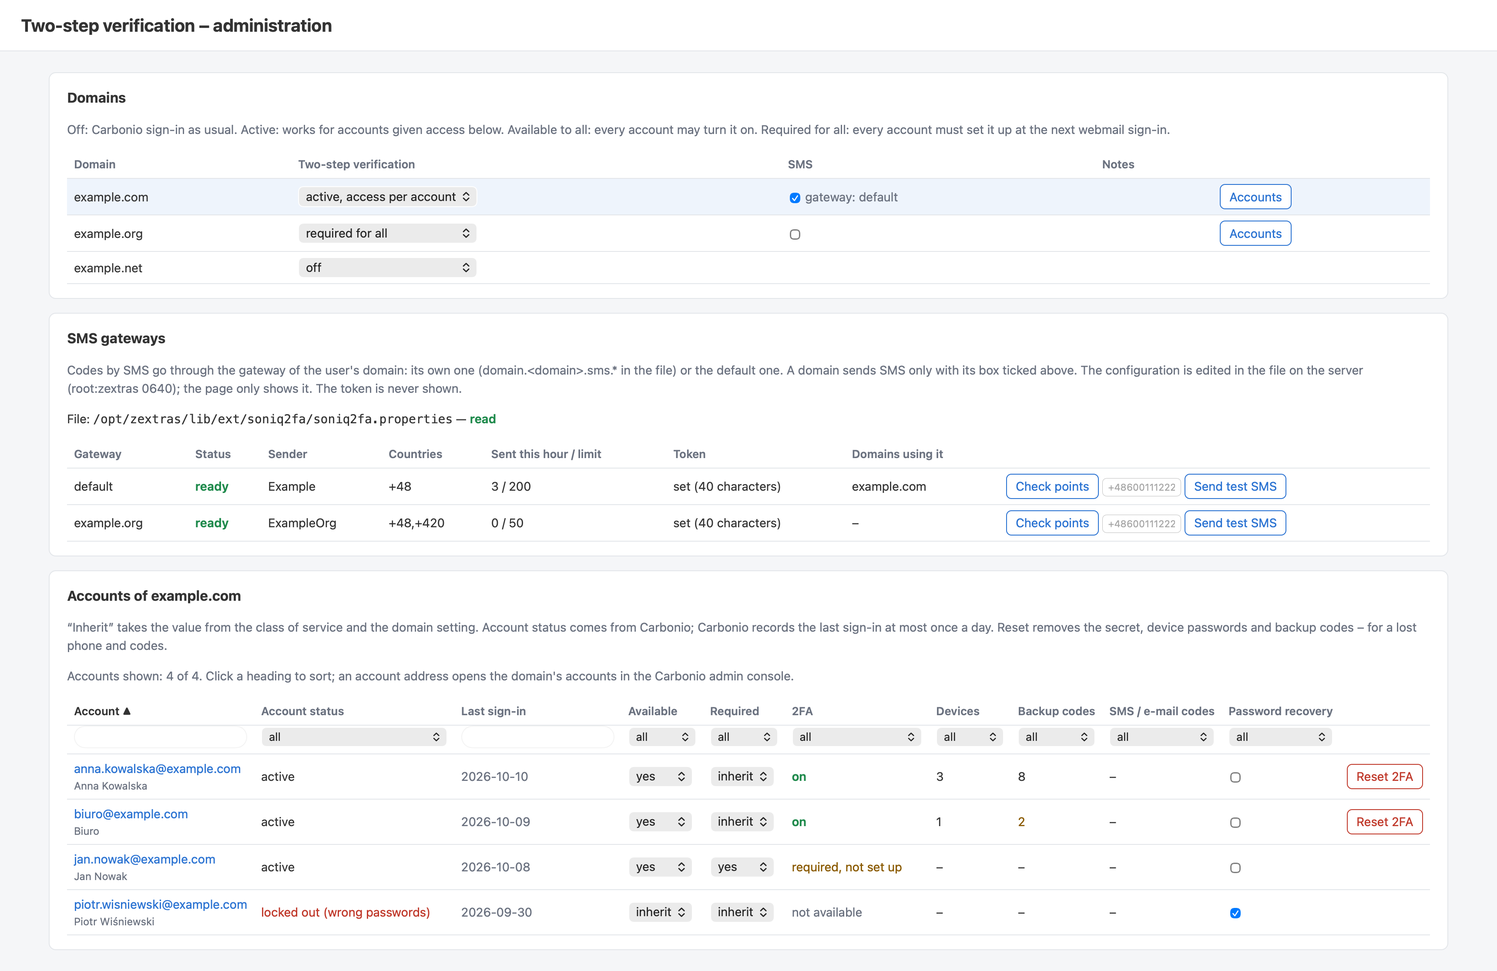
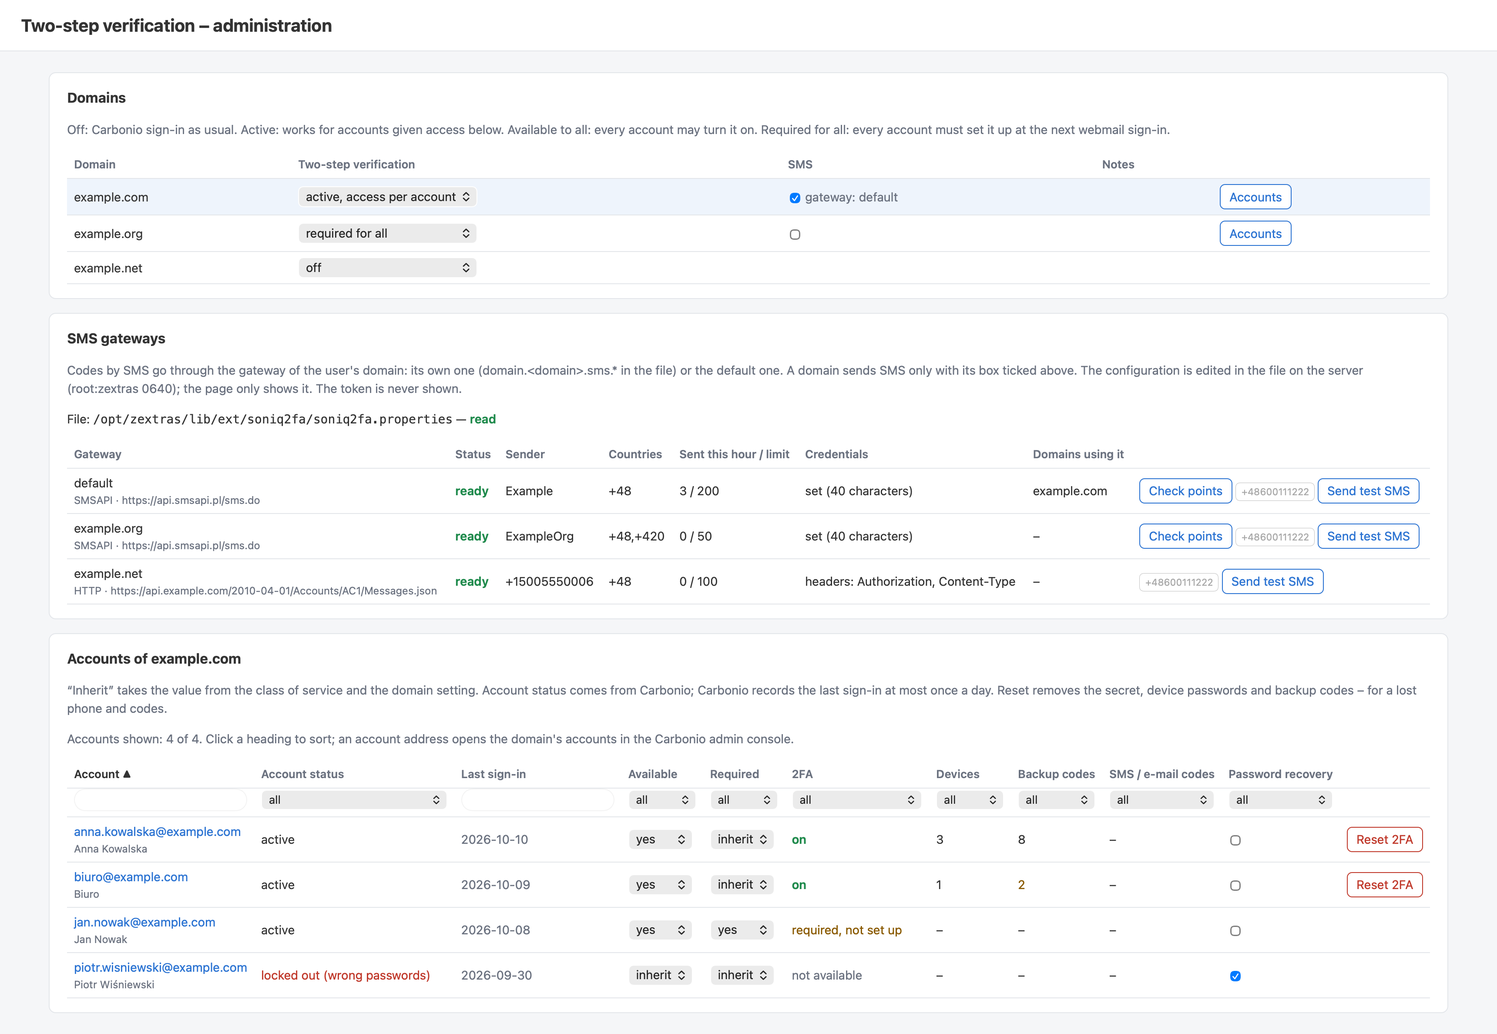
Any SMS gateway with an HTTP API (sms.provider=http), examples for Twilio and Vonage

diff --git a/src/pl/soniqsoft/soniq2fa/admin.js b/src/pl/soniqsoft/soniq2fa/admin.js
@@ -119,16 +119,21 @@
     show("gateways-table", j.gateways.length > 0);
     j.gateways.forEach(function (g) {
       var tr = el("tr");
-      tr.appendChild(el("td", g.name === "default" ? t("admin.sms.default") : g.name));
+      var name = el("td", g.name === "default" ? t("admin.sms.default") : g.name);
+      name.appendChild(el("span", (g.provider === "http" ? "HTTP" : "SMSAPI") + " · " + g.url, "sub"));
+      tr.appendChild(name);
       tr.appendChild(el("td", t(g.configured ? "admin.sms.ready" : "admin.sms.incomplete"), g.configured ? "on" : "err"));
       tr.appendChild(el("td", g.from || t("admin.sms.accountDefault")));
       tr.appendChild(el("td", g.countries));
       tr.appendChild(el("td", g.sentThisHour + " / " + g.maxPerHour));
-      tr.appendChild(el("td", g.tokenLength ? t("admin.sms.tokenSet", { n: g.tokenLength }) : "–", g.tokenLength ? "" : "err"));
+      // credentials are never shown: SMSAPI token as its length, an HTTP gateway as the names of its headers
+      var cred = g.provider === "http" ? (g.headers ? t("admin.sms.headers", { names: g.headers }) : "–")
+        : g.tokenLength ? t("admin.sms.tokenSet", { n: g.tokenLength }) : "–";
+      tr.appendChild(el("td", cred, cred === "–" && g.provider !== "http" ? "err" : ""));
       tr.appendChild(el("td", g.domains.length ? g.domains.join(", ") : "–"));
       var act = el("td");
       var points = el("button", t("admin.sms.points"));
-      var out = el("span", "", "sub");
+      var out = el("span", "", "sub out");
       points.onclick = function () {
         out.textContent = "…";
         post("sms-points", { gateway: g.name }).then(function (r) { out.textContent = t("admin.sms.pointsLeft", { points: r.points }); })
@@ -151,7 +156,7 @@
           });
         }).catch(function () { out.textContent = ""; message(t("admin.err.server")); });
       };
-      [points, el("span", " "), phone, el("span", " "), test, out].forEach(function (n) { act.appendChild(n); });
+      [g.balance ? points : null, el("span", " "), phone, el("span", " "), test, out].forEach(function (n) { if (n) act.appendChild(n); });
       tr.appendChild(act);
       tb.appendChild(tr);
     });

diff --git a/src/pl/soniqsoft/soniq2fa/Channels.java b/src/pl/soniqsoft/soniq2fa/Channels.java
@@ -33,9 +33,18 @@ import java.util.Properties;
  *   sms.url=https://api.smsapi.pl/sms.do   (optional)
  *   sms.maxPerHour=200                     (optional, per gateway)
  *   sms.countries=+48                      (optional, allowed number prefixes, comma-separated; against SMS pumping)
+ * Any HTTP SMS gateway instead of SMSAPI (sms.provider=http):
+ *   sms.http.url=<address; may contain {to} {to_digits} {text} {from}, URL-encoded>
+ *   sms.http.method=POST                   (or GET)
+ *   sms.http.header.<Name>=<value>         (e.g. Authorization, Content-Type; never shown on the admin page)
+ *   sms.http.body=<template with {to} {to_digits} {text} {from}>
+ *   sms.http.encoding=form                 (form: URL-encoded values, json: JSON string escapes, none)
+ *   sms.http.success.status=200,201,202    (accepted HTTP codes)
+ *   sms.http.success.match=<regex>         (optional, must be found in the answer)
+ *   sms.http.balance.url=<address>, sms.http.balance.match=<regex, group 1 = balance>   (optional, admin page)
  * Any key can be overridden for one mail domain as domain.<domain>.sms.<key>, e.g. domain.example.com.sms.from=Example;
- * a domain with its own domain.<domain>.sms.token has its own gateway (own account, own hourly limit), the others use
- * the default one. Whether a domain may send SMS at all is set on the domain (flag "sms" of its mechanism, see
+ * a domain with its own domain.<domain>.sms.token (SMSAPI) or sms.http.url has its own gateway (own account, own hourly
+ * limit), the others use the default one. Whether a domain may send SMS at all is set on the domain (flag "sms" of its mechanism, see
  * Soniq2faPage.smsEnabled).
  * No Carbonio classes, so the self-test runs without a mailbox.
  */
@@ -121,7 +130,7 @@ final class Channels {
         for (String k : file.stringPropertyNames()) {
             if (!k.startsWith(prefix + "sms.")) continue;
             p.setProperty(k.substring(prefix.length()), file.getProperty(k));
-            own |= k.equals(prefix + "sms.token");
+            own |= k.equals(prefix + "sms.token") || k.equals(prefix + "sms.http.url");
         }
         p.setProperty("gateway.name", own ? domain.toLowerCase(java.util.Locale.ROOT) : DEFAULT);
         return p;
@@ -132,7 +141,13 @@ final class Channels {
     }
 
     static boolean configured(Properties p) {
-        return "smsapi".equals(p.getProperty("sms.provider", "").trim()) && !p.getProperty("sms.token", "").isBlank();
+        String provider = p.getProperty("sms.provider", "").trim();
+        if ("http".equals(provider)) return !p.getProperty("sms.http.url", "").isBlank();
+        return "smsapi".equals(provider) && !p.getProperty("sms.token", "").isBlank();
+    }
+
+    static boolean http(Properties p) {
+        return "http".equals(p.getProperty("sms.provider", "").trim());
     }
 
     /** The domain's gateway can send (whether the domain may use it is decided by the caller). */
@@ -143,9 +158,13 @@ final class Channels {
     /** Gateways in the file: DEFAULT when it has a token, and every domain with its own sms.token. */
     static List<String> gatewayNames(Properties file) {
         List<String> names = new ArrayList<>();
-        if (!file.getProperty("sms.token", "").isBlank()) names.add(DEFAULT);
-        for (String k : new java.util.TreeSet<>(file.stringPropertyNames()))
-            if (k.startsWith("domain.") && k.endsWith(".sms.token")) names.add(k.substring(7, k.length() - 10));
+        if (!file.getProperty("sms.token", "").isBlank() || !file.getProperty("sms.http.url", "").isBlank()) names.add(DEFAULT);
+        for (String k : new java.util.TreeSet<>(file.stringPropertyNames())) {
+            if (!k.startsWith("domain.")) continue;
+            String name = k.endsWith(".sms.token") ? k.substring(7, k.length() - 10)
+                    : k.endsWith(".sms.http.url") ? k.substring(7, k.length() - 13) : null;
+            if (name != null && !names.contains(name)) names.add(name);
+        }
         return names;
     }
 
@@ -171,6 +190,103 @@ final class Channels {
         synchronized (h) {
             return now - h[0] > 3_600_000 ? 0 : h[1];
         }
+    }
+
+    // ---- any HTTP gateway (sms.provider=http) ----
+
+    /** Values for the templates: {to} +48600111222, {to_digits} 48600111222, {text}, {from}. */
+    static Map<String, String> vars(Properties p, String phone, String text) {
+        return Map.of("to", phone, "to_digits", phone.substring(1), "text", text, "from", p.getProperty("sms.from", "").trim());
+    }
+
+    /** The template with {name} replaced by the values, each encoded: form (URL), json (string escapes) or none. */
+    static String fill(String template, Map<String, String> vars, String encoding) {
+        StringBuilder b = new StringBuilder();
+        java.util.regex.Matcher m = java.util.regex.Pattern.compile("\\{(to|to_digits|text|from)\\}").matcher(template);
+        while (m.find()) m.appendReplacement(b, java.util.regex.Matcher.quoteReplacement(encode(vars.get(m.group(1)), encoding)));
+        m.appendTail(b);
+        return b.toString();
+    }
+
+    static String encode(String v, String encoding) {
+        if ("json".equals(encoding)) {
+            StringBuilder b = new StringBuilder();
+            for (char c : v.toCharArray()) {
+                if (c == '"' || c == '\\') b.append('\\').append(c);
+                else if (c < 0x20) b.append(String.format("\\u%04x", (int) c));
+                else b.append(c);
+            }
+            return b.toString();
+        }
+        if ("none".equals(encoding)) return v;
+        return URLEncoder.encode(v, StandardCharsets.UTF_8);
+    }
+
+    static HttpRequest httpRequest(Properties p, String phone, String text) {
+        Map<String, String> v = vars(p, phone, text);
+        String url = fill(p.getProperty("sms.http.url").trim(), v, "form");
+        String body = fill(p.getProperty("sms.http.body", ""), v, p.getProperty("sms.http.encoding", "form").trim());
+        HttpRequest.Builder r = HttpRequest.newBuilder(URI.create(url)).timeout(Duration.ofSeconds(20));
+        headers(p, r);
+        if ("GET".equalsIgnoreCase(p.getProperty("sms.http.method", "POST").trim())) r.GET();
+        else r.POST(HttpRequest.BodyPublishers.ofString(body));
+        return r.build();
+    }
+
+    private static void headers(Properties p, HttpRequest.Builder r) {
+        for (String k : p.stringPropertyNames())
+            if (k.startsWith("sms.http.header.")) r.header(k.substring("sms.http.header.".length()), p.getProperty(k).trim());
+    }
+
+    /** Names of the configured headers, for the admin page (their values may be secrets). */
+    static List<String> headerNames(Properties p) {
+        List<String> n = new ArrayList<>();
+        for (String k : new java.util.TreeSet<>(p.stringPropertyNames()))
+            if (k.startsWith("sms.http.header.")) n.add(k.substring("sms.http.header.".length()));
+        return n;
+    }
+
+    static boolean httpAccepted(Properties p, int status, String body) {
+        boolean code = false;
+        for (String c : p.getProperty("sms.http.success.status", "200,201,202").split(","))
+            code |= c.trim().equals(String.valueOf(status));
+        String match = p.getProperty("sms.http.success.match", "").trim();
+        return code && (match.isEmpty() || java.util.regex.Pattern.compile(match).matcher(body == null ? "" : body).find());
+    }
+
+    /** At most 200 characters of a gateway's answer, without digit runs that could be a phone number. */
+    static String redact(String body) {
+        String b = body == null ? "" : body.replaceAll("\\s+", " ").replaceAll("\\+?[0-9]{7,}", "…");
+        return b.length() > 200 ? b.substring(0, 200) + "…" : b;
+    }
+
+    /** The address without query and user info, for the admin page (a query may carry an API key). */
+    static String publicUrl(Properties p) {
+        String u = http(p) ? p.getProperty("sms.http.url", "") : p.getProperty("sms.url", "https://api.smsapi.pl/sms.do");
+        try {
+            URI x = URI.create(u.trim().replaceAll("\\{[a-z_]+\\}", "x"));
+            return x.getScheme() + "://" + x.getHost() + (x.getPort() > 0 ? ":" + x.getPort() : "") + (x.getPath() == null ? "" : x.getPath());
+        } catch (IllegalArgumentException e) {
+            return "";
+        }
+    }
+
+    /** Whether the admin page can ask for the balance: SMSAPI always, other gateways with sms.http.balance.url. */
+    static boolean hasBalance(Properties p) {
+        return !http(p) || !p.getProperty("sms.http.balance.url", "").isBlank();
+    }
+
+    /** Balance or points left on the gateway's account; throws with the answer when it cannot be read. */
+    static String balance(Properties p) throws IOException, InterruptedException {
+        if (!http(p)) return smsapiPoints(p);
+        HttpRequest.Builder r = HttpRequest.newBuilder(URI.create(p.getProperty("sms.http.balance.url", "").trim()))
+                .timeout(Duration.ofSeconds(15)).GET();
+        headers(p, r);
+        HttpResponse<String> resp = HttpClient.newBuilder().connectTimeout(Duration.ofSeconds(10)).build()
+                .send(r.build(), HttpResponse.BodyHandlers.ofString());
+        java.util.regex.Matcher m = java.util.regex.Pattern.compile(p.getProperty("sms.http.balance.match", "([0-9.]+)").trim()).matcher(resp.body());
+        if (resp.statusCode() / 100 != 2 || !m.find()) throw new IOException("balance not read: HTTP " + resp.statusCode() + " " + redact(resp.body()));
+        return m.group(m.groupCount() >= 1 ? 1 : 0);
     }
 
     /** Points left on the SMSAPI account of a gateway (GET /profile); throws with the gateway's answer on refusal. */
@@ -204,6 +320,13 @@ final class Channels {
         if (!configured(p)) throw new IOException("SMS gateway '" + p.getProperty("gateway.name") + "' not configured in " + GATEWAY_FILE);
         if (!mayText(p, System.currentTimeMillis()))
             throw new IOException("hourly SMS limit of gateway '" + p.getProperty("gateway.name") + "' reached (sms.maxPerHour)");
+        if (http(p)) {
+            HttpResponse<String> resp = HttpClient.newBuilder().connectTimeout(Duration.ofSeconds(10)).build()
+                    .send(httpRequest(p, phone, text), HttpResponse.BodyHandlers.ofString());
+            if (!httpAccepted(p, resp.statusCode(), resp.body()))
+                throw new IOException("gateway refused: HTTP " + resp.statusCode() + " " + redact(resp.body()));
+            return;
+        }
         HttpRequest req = HttpRequest.newBuilder(URI.create(p.getProperty("sms.url", "https://api.smsapi.pl/sms.do").trim()))
                 .timeout(Duration.ofSeconds(20))
                 .header("Authorization", "Bearer " + p.getProperty("sms.token").trim())
@@ -229,6 +352,12 @@ final class Channels {
         java.util.regex.Matcher e = java.util.regex.Pattern.compile("\"error\"\\s*:\\s*([0-9]+)").matcher(body == null ? "" : body);
         java.util.regex.Matcher m = java.util.regex.Pattern.compile("\"message\"\\s*:\\s*\"([^\"]{0,200})\"").matcher(body == null ? "" : body);
         return "error " + (e.find() ? e.group(1) : "?") + ": " + (m.find() ? m.group(1) : "");
+    }
+
+    private static Properties withUrl(Properties p, String url) {
+        Properties c = (Properties) p.clone();
+        c.setProperty("sms.http.url", url);
+        return c;
     }
 
     static void selftest() {
@@ -281,6 +410,35 @@ final class Channels {
         check("T0".equals(net.getProperty("sms.token")) && DEFAULT.equals(net.getProperty("gateway.name")), "domain on the default gateway");
         check(List.of(DEFAULT, "example.com").equals(gatewayNames(f)), "gateway names");
         check(!configured(gateway(new Properties(), "example.com")), "no file, no gateway");
+
+        // any HTTP gateway: a Twilio-like form POST and a JSON one, without sending anything
+        Properties tw = new Properties();
+        tw.setProperty("sms.provider", "http");
+        tw.setProperty("sms.from", "+15005550006");
+        tw.setProperty("sms.http.url", "https://api.example.com/2010-04-01/Accounts/AC1/Messages.json");
+        tw.setProperty("sms.http.header.Authorization", "Basic c2VjcmV0");
+        tw.setProperty("sms.http.header.Content-Type", "application/x-www-form-urlencoded");
+        tw.setProperty("sms.http.body", "To={to}&From={from}&Body={text}");
+        tw.setProperty("sms.http.success.status", "201");
+        tw.setProperty("sms.http.success.match", "\"status\"\\s*:\\s*\"queued\"");
+        HttpRequest twr = httpRequest(tw, "+48600111222", "Code: 123 456 & more");
+        check(configured(tw) && "POST".equals(twr.method()) && twr.headers().firstValue("Authorization").orElse("").equals("Basic c2VjcmV0"),
+                "http gateway: method and headers");
+        check("To=%2B48600111222&From=%2B15005550006&Body=Code%3A+123+456+%26+more".equals(
+                fill(tw.getProperty("sms.http.body"), vars(tw, "+48600111222", "Code: 123 456 & more"), "form")), "http gateway: form body");
+        check(httpAccepted(tw, 201, "{\"sid\":\"SM1\",\"status\":\"queued\"}") && !httpAccepted(tw, 201, "{\"status\":\"failed\"}")
+                && !httpAccepted(tw, 400, "{\"status\":\"queued\"}"), "http gateway: success by code and match");
+        check("{\"phone\":\"48600111222\",\"text\":\"a \\\"b\\\" \\u000a\"}".equals(
+                fill("{\"phone\":\"{to_digits}\",\"text\":\"{text}\"}", vars(tw, "+48600111222", "a \"b\" \n"), "json")), "http gateway: json escapes");
+        check("https://api.example.com/send".equals(publicUrl(withUrl(tw, "https://api.example.com/send?key=SECRET&to={to}"))),
+                "http gateway: address shown without the query");
+        check(!redact("{\"to\":\"+48600111222\",\"error\":\"x\"}").contains("600111222"), "http gateway: answer logged without the number");
+        check(List.of("Authorization", "Content-Type").equals(headerNames(tw)) && !hasBalance(tw), "http gateway: header names, no balance");
+        Properties f2 = new Properties();
+        f2.setProperty("domain.example.net.sms.provider", "http");
+        f2.setProperty("domain.example.net.sms.http.url", "https://sms.example.net/send");
+        check(List.of("example.net").equals(gatewayNames(f2)) && "example.net".equals(gateway(f2, "example.net").getProperty("gateway.name"))
+                && configured(gateway(f2, "example.net")), "http gateway as a domain's own gateway");
     }
 
     private static void check(boolean ok, String name) {

diff --git a/src/pl/soniqsoft/soniq2fa/Soniq2faAdmin.java b/src/pl/soniqsoft/soniq2fa/Soniq2faAdmin.java
@@ -30,7 +30,7 @@ import javax.servlet.http.HttpServletResponse;
  * POST op=recovery account, on (true | false) - zimbraFeatureResetPasswordStatus; turning it on for an account with 2FA
  *                  weakens it (the page asks first), and every login of that account logs an error
  * POST op=domain-sms domain, on (true | false) - the flag "sms" of the domain's mechanism (codes by SMS allowed)
- * POST op=sms-points gateway - points left on its SMSAPI account
+ * POST op=sms-points gateway - points or balance left on its account (SMSAPI, or sms.http.balance.url)
  * POST op=sms-test gateway, phone - a test SMS, sent at once (at most one a minute per admin)
  *
  * POST needs the X-Soniq2fa header and a same-host Origin, as the user page. Every change is logged with the admin.
@@ -131,7 +131,7 @@ public final class Soniq2faAdmin extends ExtensionHttpHandler {
                     java.util.Properties g = gatewayByName(req.getParameter("gateway"));
                     String points;
                     try {
-                        points = Channels.smsapiPoints(g);
+                        points = Channels.balance(g);
                     } catch (java.io.IOException e) {
                         ZimbraLog.account.warn("soniq2fa: admin %s: points of SMS gateway '%s': %s", admin.getName(), g.getProperty("gateway.name"), e.getMessage());
                         throw new IllegalArgumentException("sms_gateway");
@@ -260,8 +260,10 @@ public final class Soniq2faAdmin extends ExtensionHttpHandler {
                     .append(",\"from\":").append(Soniq2faPage.q(g.getProperty("sms.from", "")))
                     .append(",\"countries\":").append(Soniq2faPage.q(g.getProperty("sms.countries", "+48")))
                     .append(",\"maxPerHour\":").append(Soniq2faPage.q(g.getProperty("sms.maxPerHour", "200")))
-                    .append(",\"url\":").append(Soniq2faPage.q(g.getProperty("sms.url", "https://api.smsapi.pl/sms.do")))
-                    .append(",\"tokenLength\":").append(g.getProperty("sms.token", "").trim().length())
+                    .append(",\"url\":").append(Soniq2faPage.q(Channels.publicUrl(g)))
+                    .append(",\"tokenLength\":").append(Channels.http(g) ? 0 : g.getProperty("sms.token", "").trim().length())
+                    .append(",\"headers\":").append(Soniq2faPage.q(String.join(", ", Channels.headerNames(g))))
+                    .append(",\"balance\":").append(Channels.hasBalance(g))
                     .append(",\"sentThisHour\":").append(Channels.sentThisHour(name, now))
                     .append(",\"domains\":[").append(ds).append("]}");
         }

diff --git a/README.md b/README.md
@@ -474,6 +474,68 @@ domain.example.org.sms.from=ExampleOrg
 domain.example.net.sms.from=ExampleNet
 ```
 
+#### Other SMS gateways (any HTTP API)
+
+Instead of SMSAPI a gateway can be any service that sends an SMS with one HTTP request. Set `sms.provider=http` and
+describe the request; `{to}` (`+48600111222`), `{to_digits}` (`48600111222`), `{text}` and `{from}` are replaced in the
+address (URL-encoded) and in the body (encoded as `sms.http.encoding` says: `form`, `json` or `none`):
+
+| Key | Meaning |
+|---|---|
+| `sms.http.url` | address of the send call |
+| `sms.http.method` | `POST` (default) or `GET` |
+| `sms.http.header.<Name>` | a request header, e.g. `Authorization`, `Content-Type` (values are never shown on the page) |
+| `sms.http.body` | body template |
+| `sms.http.encoding` | `form` (default), `json`, `none` |
+| `sms.http.success.status` | accepted HTTP codes, default `200,201,202` |
+| `sms.http.success.match` | optional regular expression that must be found in the answer |
+| `sms.http.balance.url`, `sms.http.balance.match` | optional: balance for the administration page (group 1 of the expression) |
+
+Twilio ([Messages API](https://www.twilio.com/docs/messaging/api/message-resource#create-a-message-resource);
+`Authorization` is `Basic` with base64 of `AccountSID:AuthToken`):
+
+```properties
+sms.provider=http
+sms.from=+15005550006
+sms.http.url=https://api.twilio.com/2010-04-01/Accounts/<AccountSID>/Messages.json
+sms.http.header.Authorization=Basic <base64 of AccountSID:AuthToken>
+sms.http.header.Content-Type=application/x-www-form-urlencoded
+sms.http.body=To={to}&From={from}&Body={text}
+sms.http.success.status=201
+sms.http.success.match="status"\s*:\s*"(queued|accepted|sending|sent)"
+```
+
+Vonage SMS API (`https://rest.nexmo.com/sms/json`, basic auth with API key and secret; a sent message has status `"0"`):
+
+```properties
+sms.provider=http
+sms.from=Example
+sms.http.url=https://rest.nexmo.com/sms/json
+sms.http.header.Authorization=Basic <base64 of key:secret>
+sms.http.header.Content-Type=application/x-www-form-urlencoded
+sms.http.body=from={from}&to={to_digits}&text={text}
+sms.http.success.match="status"\s*:\s*"0"
+```
+
+A gateway with a JSON API and a bearer token (fictitious service):
+
+```properties
+sms.provider=http
+sms.http.url=https://api.example.com/v1/sms
+sms.http.header.Authorization=Bearer <token>
+sms.http.header.Content-Type=application/json
+sms.http.encoding=json
+sms.http.body={"to":"{to}","sender":"{from}","message":"{text}"}
+sms.http.success.match="ok"\s*:\s*true
+sms.http.balance.url=https://api.example.com/v1/balance
+sms.http.balance.match="balance"\s*:\s*([0-9.]+)
+```
+
+Check every new gateway with **Send test SMS** on the administration page before ticking SMS for a domain; a refusal
+is shown there and logged in `mailbox.log` (the answer without phone numbers). The same keys work per domain
+(`domain.<domain>.sms.provider=http`, …), so domains can use different providers. Gateways that do not speak HTTP
+(SMPP, GSM modems) need an HTTP bridge in front of them.
+
 The administration page shows every gateway read-only — state, sender, countries, messages this hour against the
 limit, whether the token is set (never the token), the domains using it — and can check the SMSAPI points and send a
 test SMS. The file is read at every send, so changes need no restart; without it the
@@ -548,7 +610,7 @@ The login pages send the same `AuthRequest` JSON; a change in how the server ans
   them, and mail goes out through the local MTA with the account itself as the sender.
 - Turning 2FA on sends no notification e-mail.
 - Codes by SMS and e-mail complement the app: an account turns them on after setting up 2FA with the app, and 2FA by SMS
-  alone is not offered. SMS goes through SMSAPI only; pending codes are kept in memory (a mailbox restart voids them).
+  alone is not offered. SMS goes through SMSAPI or any gateway with an HTTP API; pending codes are kept in memory (a mailbox restart voids them).
 - REST access with HTTP basic auth is not available to enrolled users.
 - Single-server installations only (see Requirements).
 - The TOTP secret is not encrypted in LDAP.
@@ -614,7 +676,8 @@ zmianie telefonu.
 - **Zgubiony telefon i kody zapasowe:** *Resetuj 2FA*, użytkownik konfiguruje je od nowa.
 - **Zapomniane hasło:** użytkownik z potwierdzonym adresem do odzyskiwania zmienia je sam (kod z maila i kod z
   aplikacji); pozostałym nowe hasło w konsoli admina albo `carbonio prov sp`; 2FA zostaje.
-- **Kody SMS:** bramka SMSAPI w `/opt/zextras/lib/ext/soniq2fa/soniq2fa.properties` (root:zextras 0640), opis w
+- **Kody SMS:** bramka SMSAPI albo dowolna bramka HTTP (`sms.provider=http`, przykłady Twilio i Vonage w sekcji
+  *Other SMS gateways*) w `/opt/zextras/lib/ext/soniq2fa/soniq2fa.properties` (root:zextras 0640), opis w
   sekcji *Codes by SMS and e-mail*. SMS włącza się **per domena** (pole *SMS* w tabeli domen); domena może mieć własną
   bramkę (`domain.<domena>.sms.*`), pozostałe korzystają z domyślnej. Sekcja *Bramki SMS* pokazuje stan, saldo i wysyła
   testowy SMS. Kody na adres zapasowy działają bez konfiguracji; kanały włącza użytkownik.
